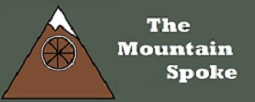
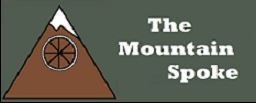
Lesson 14 1.2
Lesson 14 1.2

diff --git a/assignments/term_project/styles/adventure.css b/assignments/term_project/styles/adventure.css
@@ -35,7 +35,7 @@ header {
     width:250px;
     height:100px;
     float:left;
-    background:url('../images/MS.jpg');
+    background:url('../images/ms.jpg');
     background-color:rgb(235, 253, 212);
 }
 

diff --git a/assignments/term_project/styles/contact.css b/assignments/term_project/styles/contact.css
@@ -36,7 +36,7 @@ header {
     width:250px;
     height:100px;
     float:left;
-    background:url('../images/MS.jpg');
+    background:url('../images/ms.jpg');
     background-color:rgb(235, 253, 212);
 }
 

diff --git a/assignments/term_project/styles/events.css b/assignments/term_project/styles/events.css
@@ -36,7 +36,7 @@ header {
     width:250px;
     height:100px;
     float:left;
-    background:url('../images/MS.jpg');
+    background:url('../images/ms.jpg');
     background-color:rgb(235, 253, 212);
 }
 

diff --git a/assignments/term_project/styles/main.css b/assignments/term_project/styles/main.css
@@ -37,7 +37,7 @@ header {
     width:250px;
     height:100px;
     float:left;
-    background:url('../images/MS.jpg');
+    background:url('../images/ms.jpg');
     background-color:rgb(235, 253, 212);
 }
 

diff --git a/assignments/term_project/styles/sales.css b/assignments/term_project/styles/sales.css
@@ -36,7 +36,7 @@ header {
     width:250px;
     height:100px;
     float:left;
-    background:url('../images/MS.jpg');
+    background:url('../images/ms.jpg');
     background-color:rgb(235, 253, 212);
 }
 

diff --git a/assignments/term_project/styles/service.css b/assignments/term_project/styles/service.css
@@ -35,7 +35,7 @@ header {
     width:250px;
     height:100px;
     float:left;
-    background:url('../images/MS.jpg');
+    background:url('../images/ms.jpg');
     background-color:rgb(235, 253, 212);
 }
 
